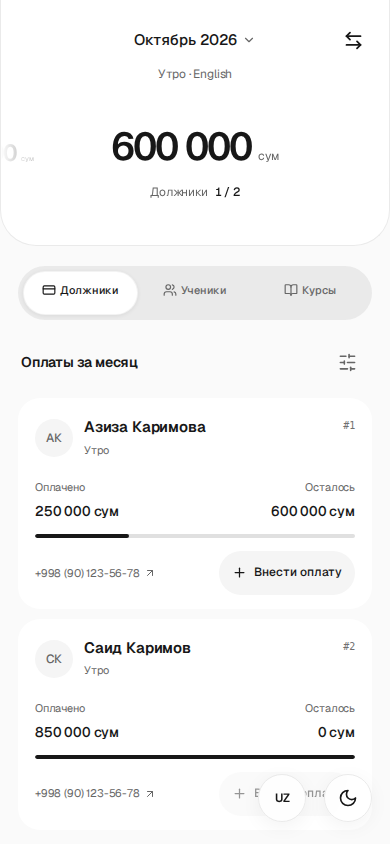
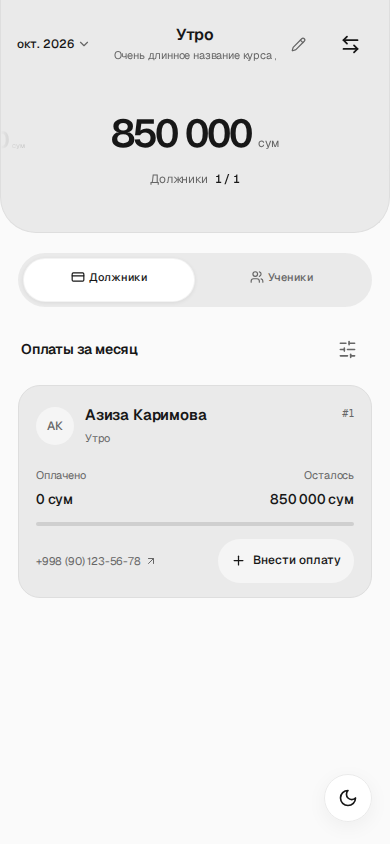
Improve light panel contrast and keep empty debtor filters visible

diff --git a/web/style.css b/web/style.css
@@ -5,11 +5,13 @@
   --tab-track: #eaeaea;
   --tab-selected: #fff;
   --surface: #fff;
+  --panel: #eaeaea;
+  --panel-line: #dedede;
   --subtle: #f5f5f5;
   --hover: #ededed;
   --ink: #171717;
   --muted: #666666;
-  --faint: #707070;
+  --faint: #666666;
   --line: #eaeaea;
   --strong-line: #d4d4d4;
   --primary: #171717;
@@ -33,6 +35,8 @@
     --tab-track: #171717;
     --tab-selected: #333333;
     --surface: #171717;
+    --panel: #171717;
+    --panel-line: #ffffff12;
     --subtle: #222222;
     --hover: #2a2a2a;
     --ink: #ededed;
@@ -56,6 +60,8 @@
   --tab-track: #171717;
   --tab-selected: #333333;
   --surface: #171717;
+  --panel: #171717;
+  --panel-line: #ffffff12;
   --subtle: #222222;
   --hover: #2a2a2a;
   --ink: #ededed;
@@ -1965,4 +1971,130 @@ html.theme-revealing::view-transition-old(root) {
 .wallet-group-name {
   position: relative;
   z-index: 3;
+}
+
+/* Filled neutral panels remain distinct from the page in the light theme. */
+.wallet-hero,
+.debtor-card {
+  background: var(--panel);
+  border: 1px solid var(--panel-line);
+}
+.wallet-hero {
+  border-top: 0;
+}
+.debtor-card .progress {
+  background: color-mix(in srgb, var(--ink) 13%, var(--panel));
+}
+.student-list {
+  display: grid;
+  gap: 10px;
+  overflow: visible;
+}
+.student-row {
+  background: var(--panel);
+  border: 1px solid var(--panel-line);
+  border-radius: 22px;
+  padding: 18px;
+}
+.student-row + .student-row {
+  border-top: 1px solid var(--panel-line);
+}
+.hero-top-row {
+  display: grid;
+  grid-template-columns: minmax(0, 1fr) minmax(0, 1.8fr) minmax(0, 1fr);
+  align-items: center;
+  gap: 6px;
+  padding-right: 0;
+  min-height: 52px;
+}
+.hero-top-row .wallet-month {
+  justify-self: start;
+  min-width: 0;
+  max-width: 100%;
+  padding: 0;
+}
+.hero-top-row .wallet-month .month-label {
+  font-size: 14px;
+  white-space: nowrap;
+}
+.hero-top-row .wallet-more {
+  position: relative;
+  top: auto;
+  right: auto;
+  justify-self: end;
+}
+.hero-top-row .wallet-group-name {
+  width: 100%;
+  max-width: 100%;
+  min-width: 0;
+  min-height: 52px;
+  gap: 0;
+  margin: 0;
+  color: var(--ink);
+}
+.hero-group-copy {
+  display: grid;
+  gap: 1px;
+  min-width: 0;
+  max-width: 100%;
+  text-align: center;
+}
+.hero-group-title {
+  min-width: 0;
+  font-size: 16px;
+  font-weight: 600;
+  line-height: 1.4;
+}
+.hero-group-course {
+  min-width: 0;
+  font-size: 11px;
+  font-weight: 400;
+  color: var(--muted);
+}
+.hero-top-row .marquee {
+  max-width: 100%;
+  text-align: center;
+}
+.hero-top-row .marquee-track {
+  margin-inline: auto;
+}
+.hero-top-row .marquee[data-overflow='true'] .marquee-track {
+  margin-inline: 0;
+}
+.hero-top-row .group-edit-button {
+  position: absolute;
+  left: 100%;
+  top: 50%;
+  translate: 0 -50%;
+  width: 44px;
+  min-width: 44px;
+  height: 44px;
+  color: var(--muted);
+}
+.month-label-short {
+  display: none;
+}
+@media (max-width: 560px) {
+  .hero-top-row .month-label-full {
+    display: none;
+  }
+  .hero-top-row .month-label-short {
+    display: inline;
+  }
+  .hero-top-row .wallet-month .month-label {
+    font-size: 12px;
+  }
+}
+
+.hero-group-copy {
+  width: 100%;
+}
+.marquee:not([data-overflow='true']) .marquee-copy {
+  display: none;
+}
+
+@media (max-width: 560px) {
+  .hero-top-row .wallet-month {
+    gap: 3px;
+  }
 }

diff --git a/web/WalletHero.tsx b/web/WalletHero.tsx
@@ -17,6 +17,7 @@ export const WalletHero = memo(function WalletHero({
   ready,
   onMonthChange,
   groupName,
+  courseName,
   onCreateGroup,
   onEditGroup,
   onSelectGroup,
@@ -31,6 +32,7 @@ export const WalletHero = memo(function WalletHero({
   ready: boolean;
   onMonthChange: (month: string) => void;
   groupName: string;
+  courseName: string;
   onCreateGroup: () => void;
   onEditGroup: () => void;
   onSelectGroup: (id: number) => void;
@@ -95,28 +97,40 @@ export const WalletHero = memo(function WalletHero({
         }
       }}
     >
-      <GroupMenu
-        onCreate={onCreateGroup}
-        onSelect={onSelectGroup}
-        groups={groups}
-        activeId={groupId}
-        ready={ready}
-      />
       <div className="hero-top-row">
-        <MonthPicker month={month} direction={direction} onChange={onMonthChange} />
+        <MonthPicker month={month} direction={direction} onChange={onMonthChange} compact />
+        <div
+          className="wallet-group-name"
+          title={[groupName, courseName].filter(Boolean).join(' · ')}
+        >
+          <div className="hero-group-copy">
+            <div className="hero-group-title">
+              <Marquee text={ready ? groupName || t('Нет групп') : t('Загрузка…')} />
+            </div>
+            {ready && courseName && courseName !== groupName && (
+              <div className="hero-group-course">
+                <Marquee text={courseName} />
+              </div>
+            )}
+          </div>
+          {ready && groupId && (
+            <button
+              className="icon-button group-edit-button"
+              aria-label={t('Изменить группу')}
+              onClick={onEditGroup}
+            >
+              <Pencil size={15} />
+            </button>
+          )}
+        </div>
+        <GroupMenu
+          onCreate={onCreateGroup}
+          onSelect={onSelectGroup}
+          groups={groups}
+          activeId={groupId}
+          ready={ready}
+        />
       </div>
-      <p className="wallet-group-name" title={groupName}>
-        <Marquee text={ready ? groupName || t('Нет групп') : t('Загрузка…')} />
-        {ready && groupId && (
-          <button
-            className="icon-button group-edit-button"
-            aria-label={t('Изменить группу')}
-            onClick={onEditGroup}
-          >
-            <Pencil size={14} />
-          </button>
-        )}
-      </p>
       <div className="wallet-balance-area">
         <motion.div
           ref={carousel}

diff --git a/web/App.tsx b/web/App.tsx
@@ -237,13 +237,8 @@ export function App({
           totalStudents={students.length}
           ready={ready}
           onMonthChange={selectMonth}
-          groupName={
-            group
-              ? group.name === group.courseName
-                ? group.name
-                : `${group.name} · ${group.courseName}`
-              : ''
-          }
+          groupName={group?.name ?? ''}
+          courseName={group?.courseName ?? ''}
           onCreateGroup={createGroup}
           onEditGroup={editGroup}
           onSelectGroup={changeGroup}
@@ -335,18 +330,16 @@ export function App({
               >
                 {tab === 'debtors' ? (
                   <>
-                    {!future && students.length > 0 && (
-                      <div className="section-label compact-label">
-                        <h2>
-                          {paymentStatus === 'all'
-                            ? t('Оплаты за месяц')
-                            : paymentStatus === 'paid'
-                              ? t('Оплатили')
-                              : t('Ожидают оплаты')}
-                        </h2>
-                        <PaymentFilter value={paymentStatus} onChange={setPaymentStatus} />
-                      </div>
-                    )}
+                    <div className="section-label compact-label">
+                      <h2>
+                        {paymentStatus === 'all'
+                          ? t('Оплаты за месяц')
+                          : paymentStatus === 'paid'
+                            ? t('Оплатили')
+                            : t('Ожидают оплаты')}
+                      </h2>
+                      <PaymentFilter value={paymentStatus} onChange={setPaymentStatus} />
+                    </div>
                     <div className="card-list">
                       <AnimatePresence initial={false}>
                         {debtors.map((debtor) => (

diff --git a/web/MonthPicker.tsx b/web/MonthPicker.tsx
@@ -190,7 +190,9 @@ export function MonthPicker({
   onDateChange,
   className,
   id,
+  compact = false,
 }: {
+  compact?: boolean;
   date?: string;
   onDateChange?: (date: string) => void;
   className?: string;
@@ -246,7 +248,18 @@ export function MonthPicker({
             exit={{ opacity: 0, x: reduced ? 0 : direction * -8 }}
             transition={{ duration: reduced ? 0 : 0.16 }}
           >
-            {label}
+            <span className={compact ? 'month-label-full' : undefined}>{label}</span>
+            {compact && (
+              <span className="month-label-short" aria-hidden="true">
+                {new Intl.DateTimeFormat(locale, {
+                  month: 'short',
+                  year: 'numeric',
+                  timeZone: 'UTC',
+                })
+                  .format(new Date(`${month}-01T00:00:00Z`))
+                  .replace(' г.', '')}
+              </span>
+            )}
           </motion.span>
         </AnimatePresence>
         <ChevronDown size={14} className="month-chevron" />

diff --git a/README.md b/README.md
@@ -140,7 +140,7 @@ curl -i -X DELETE "$BASE/students/1"
 
 Главный экран устроен как wallet в монохромной палитре Vercel: hero, фон, карточки и элементы управления используют общие переменные светлой/тёмной темы. Hero тоже меняет фон и текст при переключении темы; круговое раскрытие из кнопки сохранено. Кнопка выхода временно скрыта. Справа вверху hero — только иконка переключения групп. Popover сразу содержит названия групп с отметкой текущей и кнопку «Создать» внизу; она открывает drawer создания группы после закрытия меню. Помимо обычного нажатия поддерживается удержание 350 мс: ведение пальца подсвечивает строки, отпускание выбирает группу, выход за пределы или отмена касания отменяет выбор. У краёв длинного списка работает автопрокрутка. Доступны клавиатура, Escape и возврат фокуса.
 
-Под датой показана текущая группа и её курс. Вкладки находятся вне hero и переключают нижнюю часть. Оплата доступна в карточке и действиях ученика. Соседние месяцы предзагружаются, суммы и счётчики перемещаются и уменьшаются; месяц меняется своей анимацией. Дата находится в левом верхнем углу hero. Поддерживаются свайп и нажатия на края без стрелок. Жест выбора группы не листает месяц. Большая сумма подстраивает шрифт по ширине; измерение не зависит от масштаба соседней карточки и смены темы.
+В верхней строке hero дата слева, название группы по центру шрифтом 16px, переключение групп справа. Название курса показано под названием группы; длинные строки плавно прокручиваются. На небольших экранах месяц сокращён, четырёхзначный год сохранён, доступное имя кнопки содержит полную дату. Вкладки находятся вне hero и переключают нижнюю часть. Оплата доступна в карточке и действиях ученика. Соседние месяцы предзагружаются, суммы и счётчики перемещаются и уменьшаются; месяц меняется своей анимацией. Дата находится в левом верхнем углу hero. Поддерживаются свайп и нажатия на края без стрелок. Жест выбора группы не листает месяц. Большая сумма подстраивает шрифт по ширине; измерение не зависит от масштаба соседней карточки и смены темы.
 
 Нажатие на месяц открывает Radix Popover с вертикальными колёсами месяца и года, без видимых заголовков, подписей колонок и крестика. Доступные имена сохранены для скринридера. Popover плавно появляется и закрывается, стрелка рядом с датой поворачивается. Годы 1900–9999 виртуализированы: вместо тысяч DOM-строк отображается только ближайшая область. Работают колесо мыши, touch, стрелки клавиатуры, Page Up/Down, Home/End и Escape. Кнопка «Текущий» плавно прокручивает оба колеса, в том числе при возврате с далёкого года. Выбор применяется кнопкой «Готово»; фокус возвращается к дате.
 
@@ -158,7 +158,7 @@ curl -i -X DELETE "$BASE/students/1"
 
 По умолчанию язык русский. Переключатель языка временно скрыт на странице входа и в приложении. Переводы RU/UZ и ранее сохранённый выбор остаются в коде.
 
-Название группы и курса ограничено по ширине. Длинная строка плавно уходит влево и появляется справа без разрыва; между полными циклами пауза 3 секунды. При prefers-reduced-motion бегущая строка отключена, полное название доступно через title и скринридер. Карандаш рядом открывает редактирование группы. В пустых вкладках нет текста «Добавьте первого ученика» и подобных блоков; кнопка добавления остаётся в панели «Ученики».
+Название группы и курса ограничено по ширине. Длинная строка плавно уходит влево и появляется справа без разрыва; между полными циклами пауза 3 секунды. При prefers-reduced-motion бегущая строка отключена, полное название доступно через title и скринридер. Карандаш рядом открывает редактирование группы. Hero и карточки в светлой теме используют серый #eaeaea с границей #dedede, отличаясь от фона страницы #fafafa. Заголовок списка оплат и фильтр всегда видны, в том числе в пустой группе и будущем месяце. В пустых вкладках нет текста «Добавьте первого ученика» и подобных блоков; кнопка добавления остаётся в панели «Ученики».
 
 ## Учебные курсы
 

diff --git a/docs/VERIFICATION.md b/docs/VERIFICATION.md
@@ -157,3 +157,13 @@ RU/UZ-переключение проверено на странице вход
 Браузерный проход на отдельной in-memory БД выполнен: скрытый язык на login и в приложении, две вкладки, дата слева с корректно расположенным popover, длинное название без шва и точная пауза 3 секунды, отключение движения при изменении системного reduced-motion, доступный карандаш, изменение названия/стоимости без пересчёта прошлого, отмена удаления с возвратом фокуса, подтверждённое удаление только выбранной группы, отсутствие пустых блоков с предложением добавить ученика. Axe пройден в светлой/тёмной темах (meta-viewport исключён по требованию запретить zoom), ширины 360/720/1280px без переполнения. Исправлены контраст destructive при наведении и реакция WAAPI-строки на изменение системной настройки анимаций через matchMedia. JavaScript-ошибок нет. Синтетические снимки: group-edit-overview.png, group-edit.png, group-delete-confirm.png, group-empty-dark.png.
 
 Рабочий экземпляр обновлён до v7 с резервной копией. Хеши всех прежних учеников, платежей, курсов, групп и настроек доступа совпали до/после миграции; foreign_key_check пуст. Очистка рабочей БД не выполнена: автоматическая проверка разрешений отклонила её и требуется отдельное подтверждение точного набора записей. Сервис и Cloudflare Tunnel активны, опубликована проверенная сборка; исходники не содержат рабочую базу или резервные копии.
+
+## Светлые панели, верхняя строка и заголовок пустой вкладки
+
+Hero и карточки в светлой теме имеют фон #eaeaea как у вкладок, границу #dedede на фоне страницы #fafafa. Карточки учеников также получили отдельные заполненные панели. В тёмной теме панели остаются #171717. Затемнён faint-текст до #666666: axe обнаружил недостаточный контраст ID ученика на новом фоне, исправление проверено.
+
+Название группы отображается шрифтом 16px по центру верхней строки между датой и переключением групп. Название курса отдельно под ним, длинные строки сохраняют бегущую анимацию. Карандаш имеет область 44px и не перекрывает переключатель. На телефоне месяц сокращён, год остаётся четырёхзначным; доступное имя и popover содержат полную дату.
+
+Снят guard students.length > 0 и запрет заголовка в будущем месяце: заголовок оплат и работающий фильтр видны всегда после загрузки. Пустые подсказки о первом ученике не возвращались. Chromium-проход на отдельной базе проверил светлые панели, карточки учеников, точную центровку и отсутствие наложений на 360/390/720/1280px, доступность карандаша и выбора месяца, фильтр в пустой группе и будущем месяце, светлую/тёмную темы через axe. JavaScript-ошибок и горизонтального переполнения нет; meta-viewport исключён по прежнему требованию. TypeScript, ESLint, Prettier и production-сборка пройдены. Backend не менялся; дополнительные тесты расчётов для этих визуальных правок не добавлялись.
+
+Статика обновлена через копирование assets и атомарную замену HTML; процессы и база не изменялись. Очистка данных всё ещё ожидает ранее запрошенное подтверждение.
